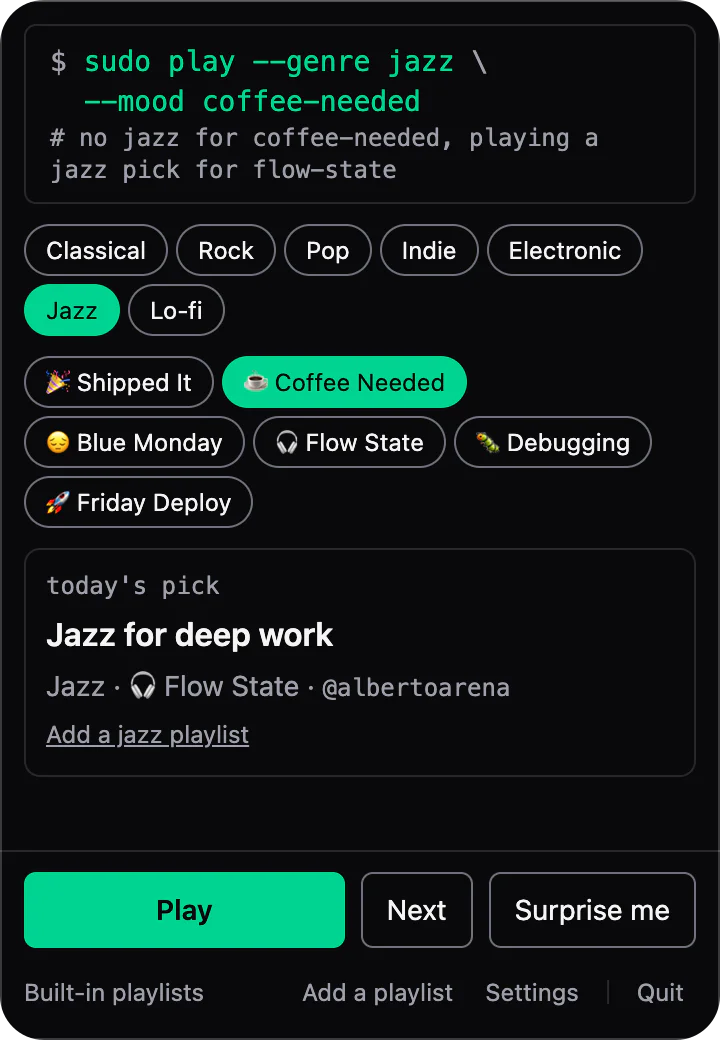
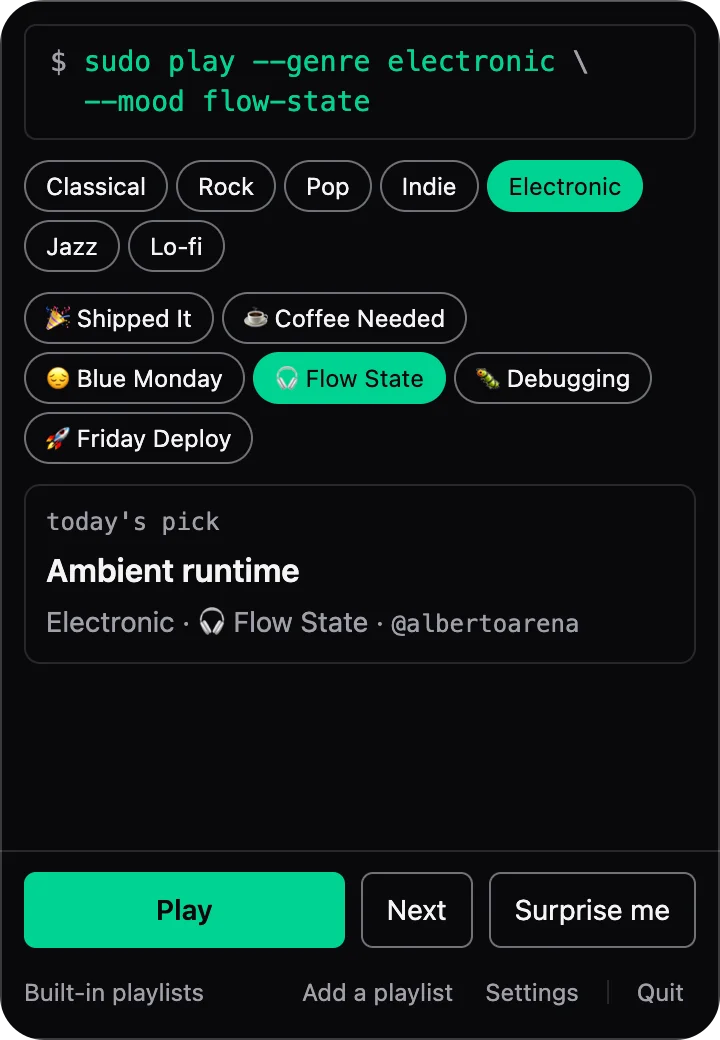
feat: real picks on Home, Settings on How it works
The window captures are retaken with the seeded catalog: Rock and Friday Deploy in light, Electronic and Flow State in dark. The alt text names no pick, so it is true in both. The Settings window goes after Play on How it works. The window style moves to global.css, since two pages use it now.

Changed region(s): [[0.0306, 0.0308, 0.9167, 0.7385], [0.55, 0.5846, 0.7944, 0.6154], [0.9472, 0.1231, 0.9778, 0.1538]]

diff --git a/src/styles/global.css b/src/styles/global.css
@@ -260,3 +260,19 @@ th {
 .placeholder strong {
   color: var(--fg);
 }
+
+/* An app window, at its natural size, cropped from a 2x capture without the
+   macOS shadow: the site is flat. A hairline gives it an edge on a page the
+   same colour as the window. The radius is the window's own. */
+.window {
+  margin: 2rem 0;
+}
+
+.window img {
+  display: block;
+  max-width: 100%;
+  height: auto;
+  border-radius: 22px;
+  outline: 1px solid var(--border);
+  outline-offset: -1px;
+}
